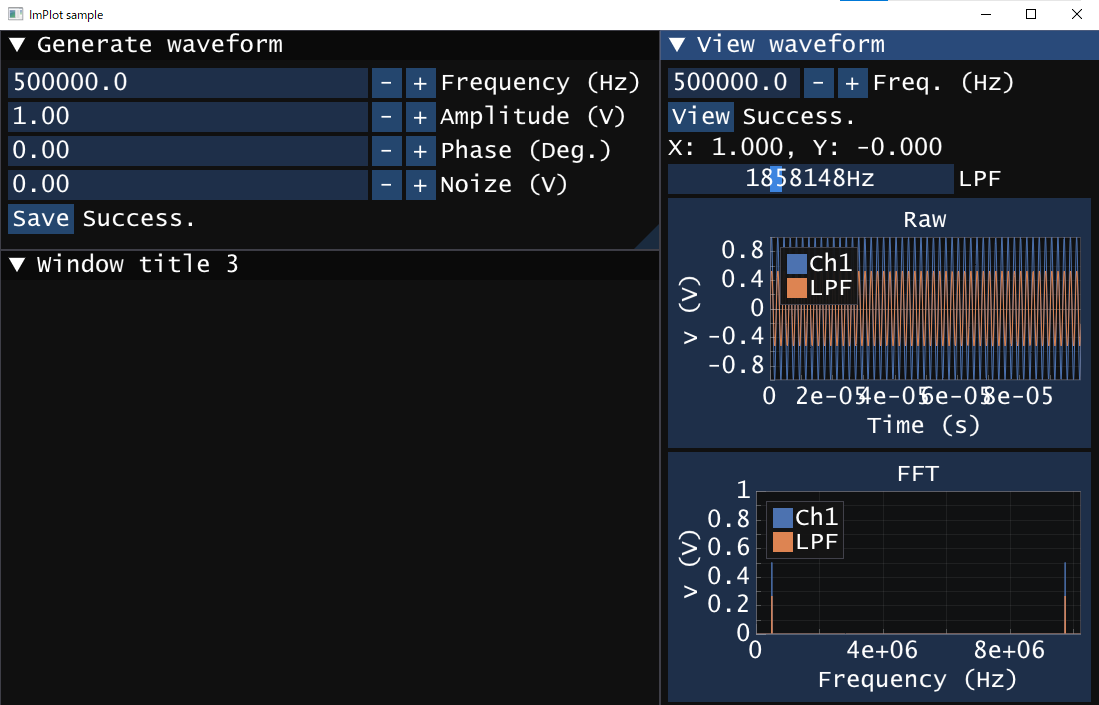
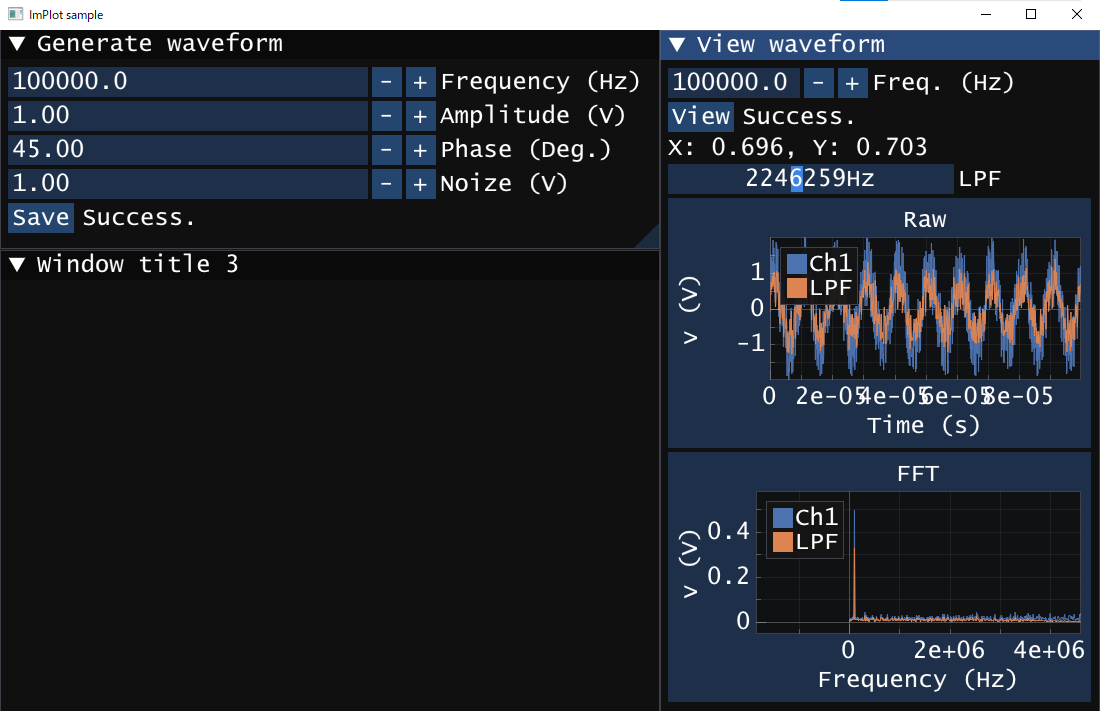
LPFを修正

Changed region(s): [[0.0, 0.0, 1.0, 0.9986], [0.99, 0.0624, 1.0, 0.0936]]

diff --git a/ImPlotSample/main.cpp b/ImPlotSample/main.cpp
@@ -110,9 +110,10 @@ void ShowWindow1(const char title[]) {
 void ShowWindow2(const char title[]) {
     static std::string text = "";
     static double times[SIZE], waveform[SIZE], lpwf[SIZE];
-	static double freqs[SIZE], amps[SIZE], ampslpf[SIZE];
+    static double freqs[SIZE], amps[SIZE], ampslpf[SIZE];
     static double freq = 100e3, x = 0, y = 0;
-    
+    static int order = 2;
+
     // ウィンドウ開始
     ImGui::SetNextWindowPos(ImVec2(660 * Gui::monitorScale, 0), ImGuiCond_FirstUseEver);
     ImGui::SetNextWindowSize(ImVec2(440 * Gui::monitorScale, 750 * Gui::monitorScale), ImGuiCond_FirstUseEver);
@@ -120,6 +121,9 @@ void ShowWindow2(const char title[]) {
     /*** 描画したいImGuiのWidgetやImPlotのPlotをここに記述する ***/
     ImGui::SetNextItemWidth(200.0f * Gui::monitorScale);
     ImGui::InputDouble("Freq. (Hz)", &freq, 100.0, 1000.0, "%.1f");
+    if (ImGui::InputInt("Order", &order, 1, 10)) {
+        if (order < 1) order = 1;
+    }
     if (ImGui::Button("View")) {
         // ボタンが押されたらここが実行される
         /*** ここから *************************************************/
@@ -157,8 +161,8 @@ void ShowWindow2(const char title[]) {
     ImGui::Text(text.c_str());
     ImGui::Text("X: %5.3f, Y: %5.3f", x, y);
     static float lpfreq = 1e4;
-    if (ImGui::SliderFloat("LPF", &lpfreq, 1e4, 5e6, "%.0fHz")) {
-        ButterworthLPF lpf(2, lpfreq, 1.0 / DT);
+    if (ImGui::SliderFloat("LPF", &lpfreq, 1e4, 0.5e6, "%.0fHz")) {
+        ButterworthLPF lpf(order, lpfreq, 1.0 / DT);
         for (int i = 0; i < SIZE; i++)
         {
             lpwf[i] = lpf.process(waveform[i]);
